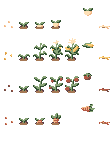
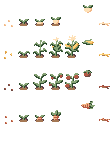
Add watering

diff --git a/src/app/features/managers/TileManager.ts b/src/app/features/managers/TileManager.ts
@@ -5,6 +5,7 @@ export enum TileType {
   PLAIN,
   GROUND,
   TILLED,
+  WATERED,
   DOOR,
   ITEM,
 }
@@ -59,18 +60,23 @@ export class Tile {
 
   public changeType(type: TileType) {
     this.type = type;
-    this.tileSprite?.destroy();
+    if (this.tileSprite) {
+      this.tileSprite.setTexture(
+        "all_tiles_sprite",
+        this.typeToSpriteFrame(this.type)
+      );
+    } else {
+      this.tileSprite = this.scene.add.sprite(
+        this.x * Constants.TILE_DISPLAY_SIZE,
+        this.y * Constants.TILE_DISPLAY_SIZE,
+        "all_tiles_sprite",
+        this.typeToSpriteFrame(this.type)
+      );
 
-    this.tileSprite = this.scene.add.sprite(
-      this.x * Constants.TILE_DISPLAY_SIZE,
-      this.y * Constants.TILE_DISPLAY_SIZE,
-      "all_tiles_sprite",
-      this.typeToSpriteFrame(this.type)
-    );
+      this.tileSprite.setOrigin(0, 0);
 
-    this.tileSprite.setOrigin(0, 0);
-
-    this.tileSprite.scale = 2;
+      this.tileSprite.scale = 2;
+    }
   }
 
   public changePlantType(tilePlantType: TilePlantType) {
@@ -87,6 +93,7 @@ export class Tile {
     this.tilePlantSprite.setOrigin(0, 0);
 
     this.tilePlantSprite.scale = 2;
+    this.tilePlantSprite.z = 1;
   }
 
   public typeToSpriteFrame(type: TileType) {
@@ -95,6 +102,8 @@ export class Tile {
         return 0;
       case TileType.TILLED:
         return 5;
+      case TileType.WATERED:
+        return 6;
     }
   }
 

diff --git a/src/app/features/managers/ToolboxManager.ts b/src/app/features/managers/ToolboxManager.ts
@@ -3,6 +3,7 @@ import Hoe from "../tools/Hoe";
 import Seed from "../tools/Seed";
 import Tool from "../tools/Tool";
 import Travel from "../tools/Travel";
+import WateringCan from "../tools/WateringCan";
 
 const TOOLBOX_FRAME = 15;
 
@@ -15,17 +16,19 @@ export default class ToolboxManager {
   private tools: Tool[] = [];
   private hoe: Hoe | null;
   private seed: Seed | null;
-  private travel: Tool | null;
+  private travel: Travel | null;
+  private wateringCan: WateringCan | null;
 
   constructor(scene: Phaser.Scene) {
     this.scene = scene;
     this.hoe = new Hoe(this.scene);
     this.seed = new Seed(this.scene);
     this.travel = new Travel(this.scene);
+    this.wateringCan = new WateringCan(this.scene);
     this.selectedTool = this.hoe;
     this.selector = null;
     this.toolName = null;
-    this.tools = [this.hoe, this.seed, this.travel];
+    this.tools = [this.hoe, this.seed, this.travel, this.wateringCan];
   }
 
   public initialize() {
@@ -34,6 +37,7 @@ export default class ToolboxManager {
     this.hoe?.initialize();
     this.seed?.initialize();
     this.travel?.initialize();
+    this.wateringCan?.initialize();
     this.drawToolSelector();
     this.initializeToolSelector();
   }

diff --git a/src/app/features/tools/WateringCan.ts b/src/app/features/tools/WateringCan.ts
@@ -1,0 +1,28 @@
+import { TileType } from "../managers/TileManager";
+import MainGame from "../scenes/mainGame";
+import Tool from "./Tool";
+
+const WATERING_CAN_FRAME = 1;
+
+export default class WateringCan extends Tool {
+  constructor(scene: Phaser.Scene) {
+    super(scene, "Watering Can");
+  }
+
+  public initialize() {
+    this.sprite = this.scene.add
+      .sprite(0, 0, "tools", WATERING_CAN_FRAME)
+      .setOrigin(0, 0);
+
+    this.sprite.scale = 2;
+
+    this.moveToPosition(0, 3);
+  }
+
+  public use(x: number, y: number) {
+    const tile = (this.scene as MainGame).tileManager?.getTile(x, y);
+    if (tile?.getType() === TileType.TILLED) {
+      tile?.changeType(TileType.WATERED);
+    }
+  }
+}

diff --git a/src/app/features/tools/Seed.ts b/src/app/features/tools/Seed.ts
@@ -21,7 +21,10 @@ export default class Seed extends Tool {
 
   public use(x: number, y: number) {
     const tile = (this.scene as MainGame).tileManager?.getTile(x, y);
-    if (tile?.getType() === TileType.TILLED) {
+    if (
+      tile?.getType() === TileType.TILLED ||
+      tile?.getType() === TileType.WATERED
+    ) {
       tile.changePlantType(TilePlantType.SEEDED);
     }
   }
